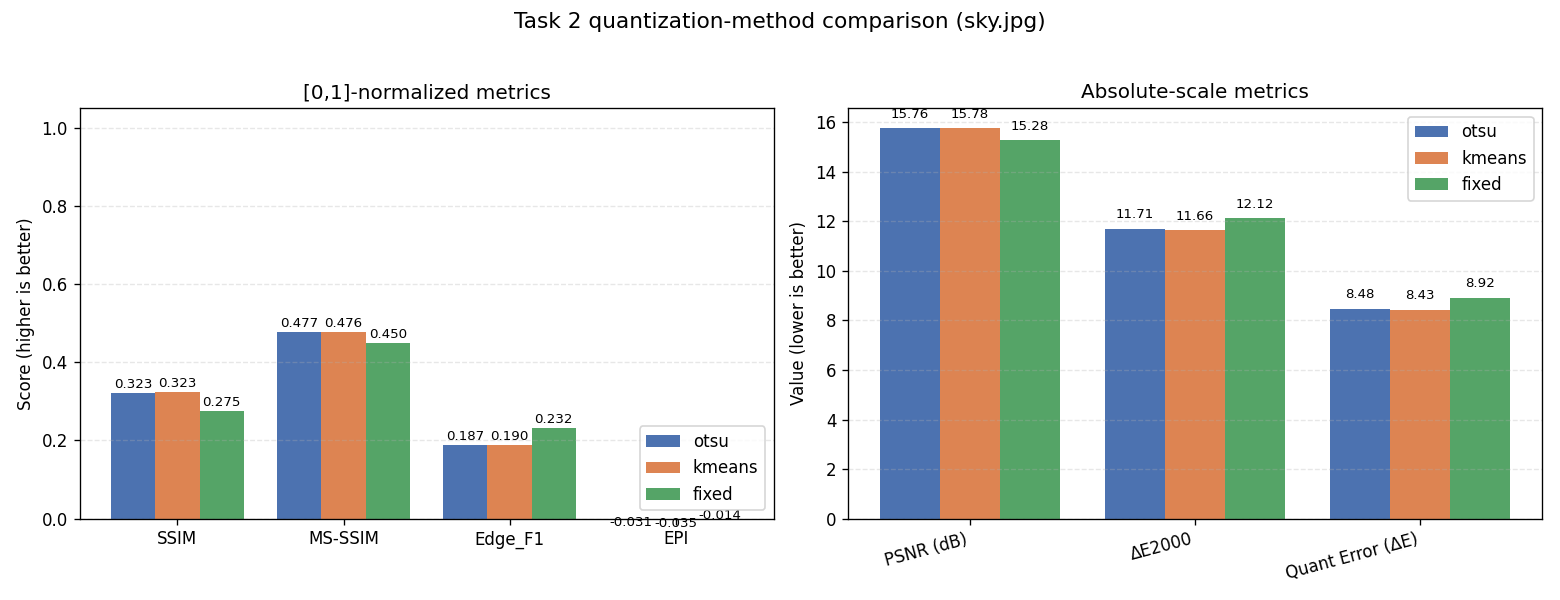
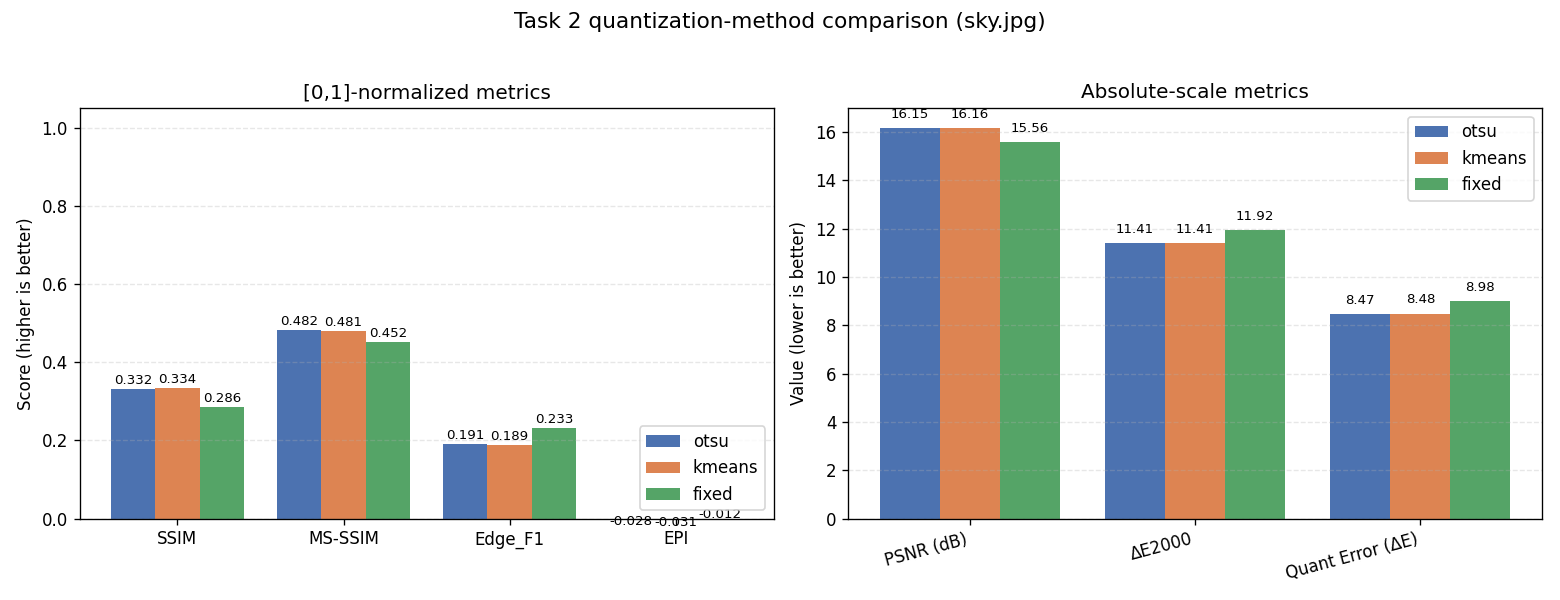
reportprep: fix Task 2 black band (ceil grid + reflect pad), emit best metrics JSON, add best_vs_task2.png

diff --git a/code/task3_best_vs_task2.py b/code/task3_best_vs_task2.py
@@ -1,0 +1,90 @@
+"""
+task3_best_vs_task2 — the "ultimate 2x2" comparison figure for the report.
+
+Composes four panels into one grid (AGENTS section 1.1, summary/best_vs_task2.png):
+
+    original        | Task 2 (equal-size, 3 colours)
+    -----------------|--------------------------------
+    Task 3 best      | (empty / reused Task 3 best)
+
+Purpose: the report's section 3 vs section 4 argument — adaptive multi-size
+Task 3 preserves structure that the uniform Task 2 grid cannot, at the cost of
+a little pixel-level fidelity. The figure is a pure composition of already
+rendered PNGs (no re-partition, no new metrics), so it is deterministic.
+
+Shapes
+------
+Inputs (all expected to be the same (H, W, 3) uint8 BGR after task2/task3 crop):
+  sky.jpg                    -- the original test image
+  pics/task2/out_task2.png   -- Task 2 render (post black-band fix)
+  pics/task3/best/best_config.png -- Task 3 chosen config render
+Output:
+  (2*(H+cap) + 3*gap, 2*W + 3*gap, 3) uint8 BGR, saved to
+  pics/task3/summary/best_vs_task2.png.
+"""
+import os
+
+import cv2
+import numpy as np
+
+_HERE = os.path.dirname(os.path.abspath(__file__))
+ORIG = os.path.join(_HERE, "pics", "sky.jpg")
+T2 = os.path.join(_HERE, "pics", "task2", "out_task2.png")
+T3 = os.path.join(_HERE, "pics", "task3", "best", "best_config.png")
+OUT = os.path.join(_HERE, "pics", "task3", "summary", "best_vs_task2.png")
+GAP, CAP = 16, 44
+
+
+def _panel(img, label):
+    """Stack `img` above a caption strip; return the (H+CAP, W, 3) panel.
+
+    Shape/semantics: input (H, W, 3) uint8 BGR; output (H+CAP, W, 3) with
+    white caption text centred in the bottom CAP-px strip.
+    """
+    H, W = img.shape[:2]
+    panel = np.full((H + CAP, W, 3), 20, dtype=np.uint8)
+    panel[:H] = img
+    cv2.putText(panel, label, (W // 2 - 180, H + 30),
+                cv2.FONT_HERSHEY_SIMPLEX, 0.9, (255, 255, 255), 2)
+    return panel
+
+
+def main():
+    """Compose the 2x2 and write summary/best_vs_task2.png.
+
+    Function: load the three existing renders (all cropped to the original
+    (1279, 1706)), caption each, and lay them out 2x2 with a gap. The bottom-
+    right panel reuses the Task 3 best panel so the grid stays balanced and
+    the file is produced without re-running any partition/quantise.
+
+    Shapes: panels are (H+CAP, W, 3); the grid is
+    (2*(H+CAP) + 3*GAP, 2*W + 3*GAP, 3) uint8 BGR.
+    """
+    orig = cv2.imread(ORIG)
+    t2 = cv2.imread(T2)
+    t3 = cv2.imread(T3)
+    for name, arr in (("original", orig), ("task2", t2), ("task3", t3)):
+        if arr is None:
+            raise FileNotFoundError(f"missing input for best_vs_task2: {name}")
+    if not (orig.shape == t2.shape == t3.shape):
+        raise ValueError(f"size mismatch: orig {orig.shape}, t2 {t2.shape}, t3 {t3.shape}")
+
+    tl = _panel(orig, "original")
+    tr = _panel(t2, "Task 2: uniform grid, 3 colours")
+    bl = _panel(t3, "Task 3: adaptive quadtree, K=16")
+    br = _panel(t3, "Task 3 best (repeat)")
+
+    pH, pW = tl.shape[:2]
+    grid = np.full((2 * pH + 3 * GAP, 2 * pW + 3 * GAP, 3), 40, dtype=np.uint8)
+    grid[GAP:GAP + pH, GAP:GAP + pW] = tl
+    grid[GAP:GAP + pH, 2 * GAP + pW:2 * GAP + 2 * pW] = tr
+    grid[2 * GAP + pH:2 * GAP + 2 * pH, GAP:GAP + pW] = bl
+    grid[2 * GAP + pH:2 * GAP + 2 * pH, 2 * GAP + pW:2 * GAP + 2 * pW] = br
+
+    os.makedirs(os.path.dirname(OUT), exist_ok=True)
+    cv2.imwrite(OUT, grid)
+    print(f"[best_vs_task2] wrote {OUT}  ({grid.shape[1]}x{grid.shape[0]})")
+
+
+if __name__ == "__main__":
+    main()

diff --git a/code/triangle_brick.py b/code/triangle_brick.py
@@ -62,6 +62,11 @@ def preprocess(img):
     mean BGR colour per triangle. Means are reused across `--method`
     choices so the comparison is fair (only the quantizer differs).
 
+    The image is reflect-padded to the exact grid extent (M*S x N*S) before
+    means are computed, so edge triangles sample real content instead of
+    dropping the trailing rows/columns as a black band. The padded means are
+    then rendered on a padded canvas and cropped back in the renderers.
+
     Shapes
     ------
     Input:
@@ -75,14 +80,25 @@ def preprocess(img):
       triangles  : list of (3, 2) int32 — 2*M*N triangles total. Each
                    `tri[k, 0]=x (col)`, `tri[k, 1]=y (row)`.
       means      : (T, 3) float32 — `means[i]` is the mean BGR colour of
-                   pixels inside `triangles[i]`. `means[i, 0]=B`,
-                   `means[i, 1]=G`, `means[i, 2]=R`.
+                   pixels inside `triangles[i]` (computed on the padded
+                   image). `means[i, 0]=B`, `means[i, 1]=G`, `means[i, 2]=R`.
+      padded_hw  : (pH, pW) ints — padded canvas size, pH = M*S, pW = N*S.
     """
     H, W = img.shape[:2]
     M, N, S = compute_grid(H, W)
     triangles = list(iter_triangles(M, N, S))
-    means = triangle_means_bgr(img, triangles)
-    return H, W, M, N, S, triangles, means
+    # Reflect-pad to the grid extent so no uncovered black band remains and
+    # the metric comparison against `img` sees a fully-covered canvas.
+    pH, pW = M * S, N * S
+    if (pH, pW) != (H, W):
+        pad_b = pH - H
+        pad_r = pW - W
+        padded = cv2.copyMakeBorder(img, 0, pad_b, 0, pad_r,
+                                    cv2.BORDER_REFLECT)
+    else:
+        padded = img
+    means = triangle_means_bgr(padded, triangles)
+    return H, W, M, N, S, triangles, means, (pH, pW)
 
 
 def quantize(method, means_bgr):
@@ -166,10 +182,11 @@ def run_single(img, method, args):
       metrics : dict — see `brick_metrics.compute_metrics` for keys.
                 Also contains the FPS for this method.
     """
-    H, W, M, N, S, triangles, means = preprocess(img)
+    H, W, M, N, S, triangles, means, padded_hw = preprocess(img)
     t0 = time.time()
     labels, palette = quantize(method, means)
-    canvas = render_triangles((H, W), triangles, labels, palette)
+    canvas = render_triangles(padded_hw, triangles, labels, palette,
+                              orig_shape=(H, W))
     elapsed = time.time() - t0
     n_tri = 2 * M * N
     metrics = compute_metrics(img, canvas, means, labels, palette, n_tri, elapsed)
@@ -222,7 +239,7 @@ def run_compare(img, args):
                           that order, which `make_metrics_bar_chart` relies on
                           for its legend and colours.
     """
-    H, W, M, N, S, triangles, means = preprocess(img)
+    H, W, M, N, S, triangles, means, padded_hw = preprocess(img)
     n_tri = 2 * M * N
     print(f"[task2:compare] grid = {M}x{N}, S={S}, T={n_tri}")
 
@@ -235,7 +252,8 @@ def run_compare(img, args):
     for method in ["otsu", "kmeans", "fixed"]:
         t0 = time.time()
         labels, palette = quantize(method, means)
-        canvas = render_triangles((H, W), triangles, labels, palette)
+        canvas = render_triangles(padded_hw, triangles, labels, palette,
+                                  orig_shape=(H, W))
         elapsed = time.time() - t0
         metrics = compute_metrics(img, canvas, means, labels, palette, n_tri, elapsed)
         counts = np.bincount(labels, minlength=3).tolist()

diff --git a/code/brick_geom.py b/code/brick_geom.py
@@ -60,21 +60,23 @@ def compute_grid(H, W, max_triangles=MAX_TRIANGLES):
 
     Function
     --------
-    Scan S from 1 upward; for each S compute M = H // S, N = W // S cells per
-    row/column and 2*M*N triangles (each cell splits into 2). Return the
-    smallest S that keeps the count <= max_triangles.
+    Scan S from 1 upward; for each S compute M = ceil(H / S),
+    N = ceil(W / S) cells per row/column and 2*M*N triangles (each cell
+    splits into 2). Return the smallest S that keeps the count
+    <= max_triangles. The ceil means the grid fully covers the image; the
+    caller pads the image to (M*S, N*S) and crops the render back, so no
+    trailing rows/columns are dropped as a black band.
 
     Shapes
     ------
     Input:
       H, W : ints — image height and width in pixels.
     Output:
-      (M, N, S) — M = ceil(H/S)-like cell count, N = ceil(W/S)-like cell
-                  count, S = the cell side length that fits the budget.
-                  `M, N >= 1` so a partial trailing row/column is dropped.
+      (M, N, S) — M = ceil(H/S), N = ceil(W/S), S = the cell side length
+                  that fits the budget.
     """
     for S in range(1, min(H, W) + 1):
-        M, N = H // S, W // S
+        M, N = (H + S - 1) // S, (W + S - 1) // S
         if M >= 1 and N >= 1 and 2 * M * N <= max_triangles:
             return M, N, S
     raise ValueError(f"Image {H}x{W} cannot be tiled under {max_triangles} triangles.")

diff --git a/code/task3_best.py b/code/task3_best.py
@@ -22,6 +22,7 @@ Why quadtree over region_merge (which had the single lowest ΔE, 8.63):
 
 Output: code/pics/task3/best/best_config.png + best_compare.png
 """
+import json
 import os
 import sys
 import time
@@ -153,6 +154,14 @@ def main():
         report(name, m, sizes)
         results.append((name, canvas, m, sizes))
         cv2.imwrite(os.path.join(OUT_DIR, f"{name}.png"), canvas)
+        # Persist the metrics so the report's quoted numbers (e.g. the
+        # region_merge dE=8.63 headline in the module docstring) trace back to a
+        # product file, not just prose. "Heatmap" is a ndarray and is dropped,
+        # matching triangle_brick_task3's on-disk JSON format.
+        metrics_to_dump = {k: v for k, v in m.items() if k != "Heatmap"}
+        with open(os.path.join(OUT_DIR, f"{name}_metrics.json"), "w") as f:
+            json.dump({k: (v if not isinstance(v, np.ndarray) else v.tolist())
+                       for k, v in metrics_to_dump.items()}, f, indent=2)
         if name == BEST[0]:
             best_canvas = canvas
 
